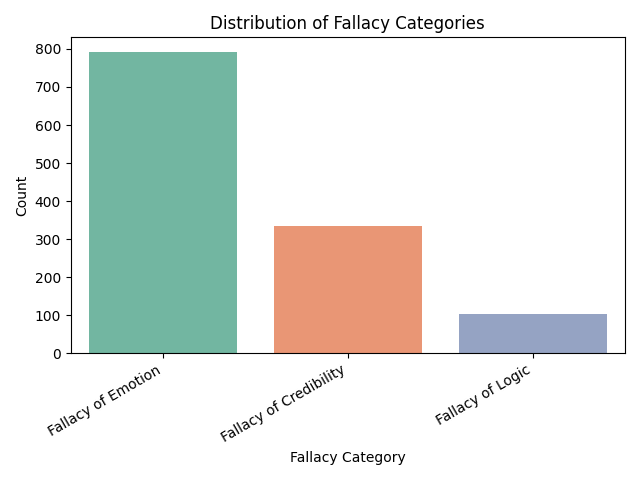
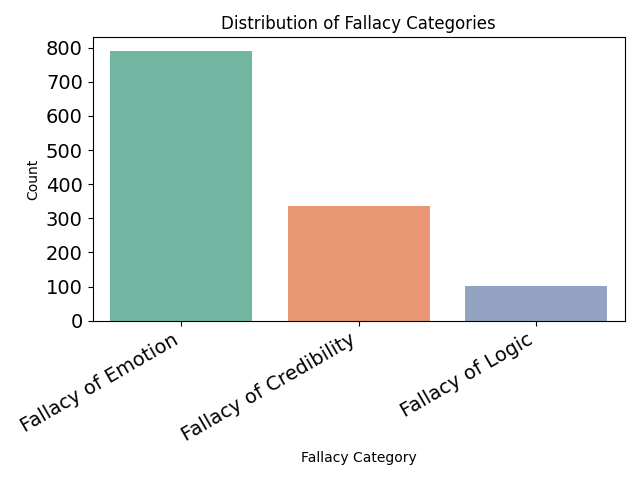
edits to plots

diff --git a/data/MM_USED_fallacy/data_analysis.py b/data/MM_USED_fallacy/data_analysis.py
@@ -10,6 +10,8 @@ def plot_fallacy_detection_distribution(df, augmented=False):
     suffix = "- augmented" if augmented else ""
     
     sns.countplot(x='fallacy_detection', hue='fallacy_detection', data=df, palette='Set2', legend=False)
+    plt.xticks(fontsize=14)
+    plt.yticks(fontsize=14)
     plt.title(f'Distribution of Fallacy Detection{suffix}')
     plt.xlabel('Fallacy Detection')
     plt.ylabel('Count')
@@ -38,6 +40,8 @@ def plot_category_distribution(df, augmented=False):
 
 
     plt.title(f'Distribution of Fallacy Categories{suffix}')
+    plt.xticks(fontsize=14)
+    plt.yticks(fontsize=14)
     plt.xlabel('Fallacy Category')
     plt.ylabel('Count')
 
@@ -59,6 +63,8 @@ def plot_class_distribution(df, augmented=False):
 
     sns.countplot(x='class', hue='class', data=filtered_df, palette='Set2', legend=False)
 
+    plt.xticks(fontsize=14)
+    plt.yticks(fontsize=14)
     plt.title(f'Distribution of Fallacy Classes {suffix}')
     plt.xlabel('Fallacy Class')
     plt.ylabel('Count')
@@ -91,6 +97,9 @@ def main():
 
     # Set this to True or False depending on the data you're using
     is_augmented = False
+
+    # print number of rows in the dataframe
+    print(f"Number of rows in the dataframe: {len(df)}")
 
     plot_fallacy_detection_distribution(df, augmented=is_augmented)
     plot_category_distribution(df, augmented=is_augmented)
